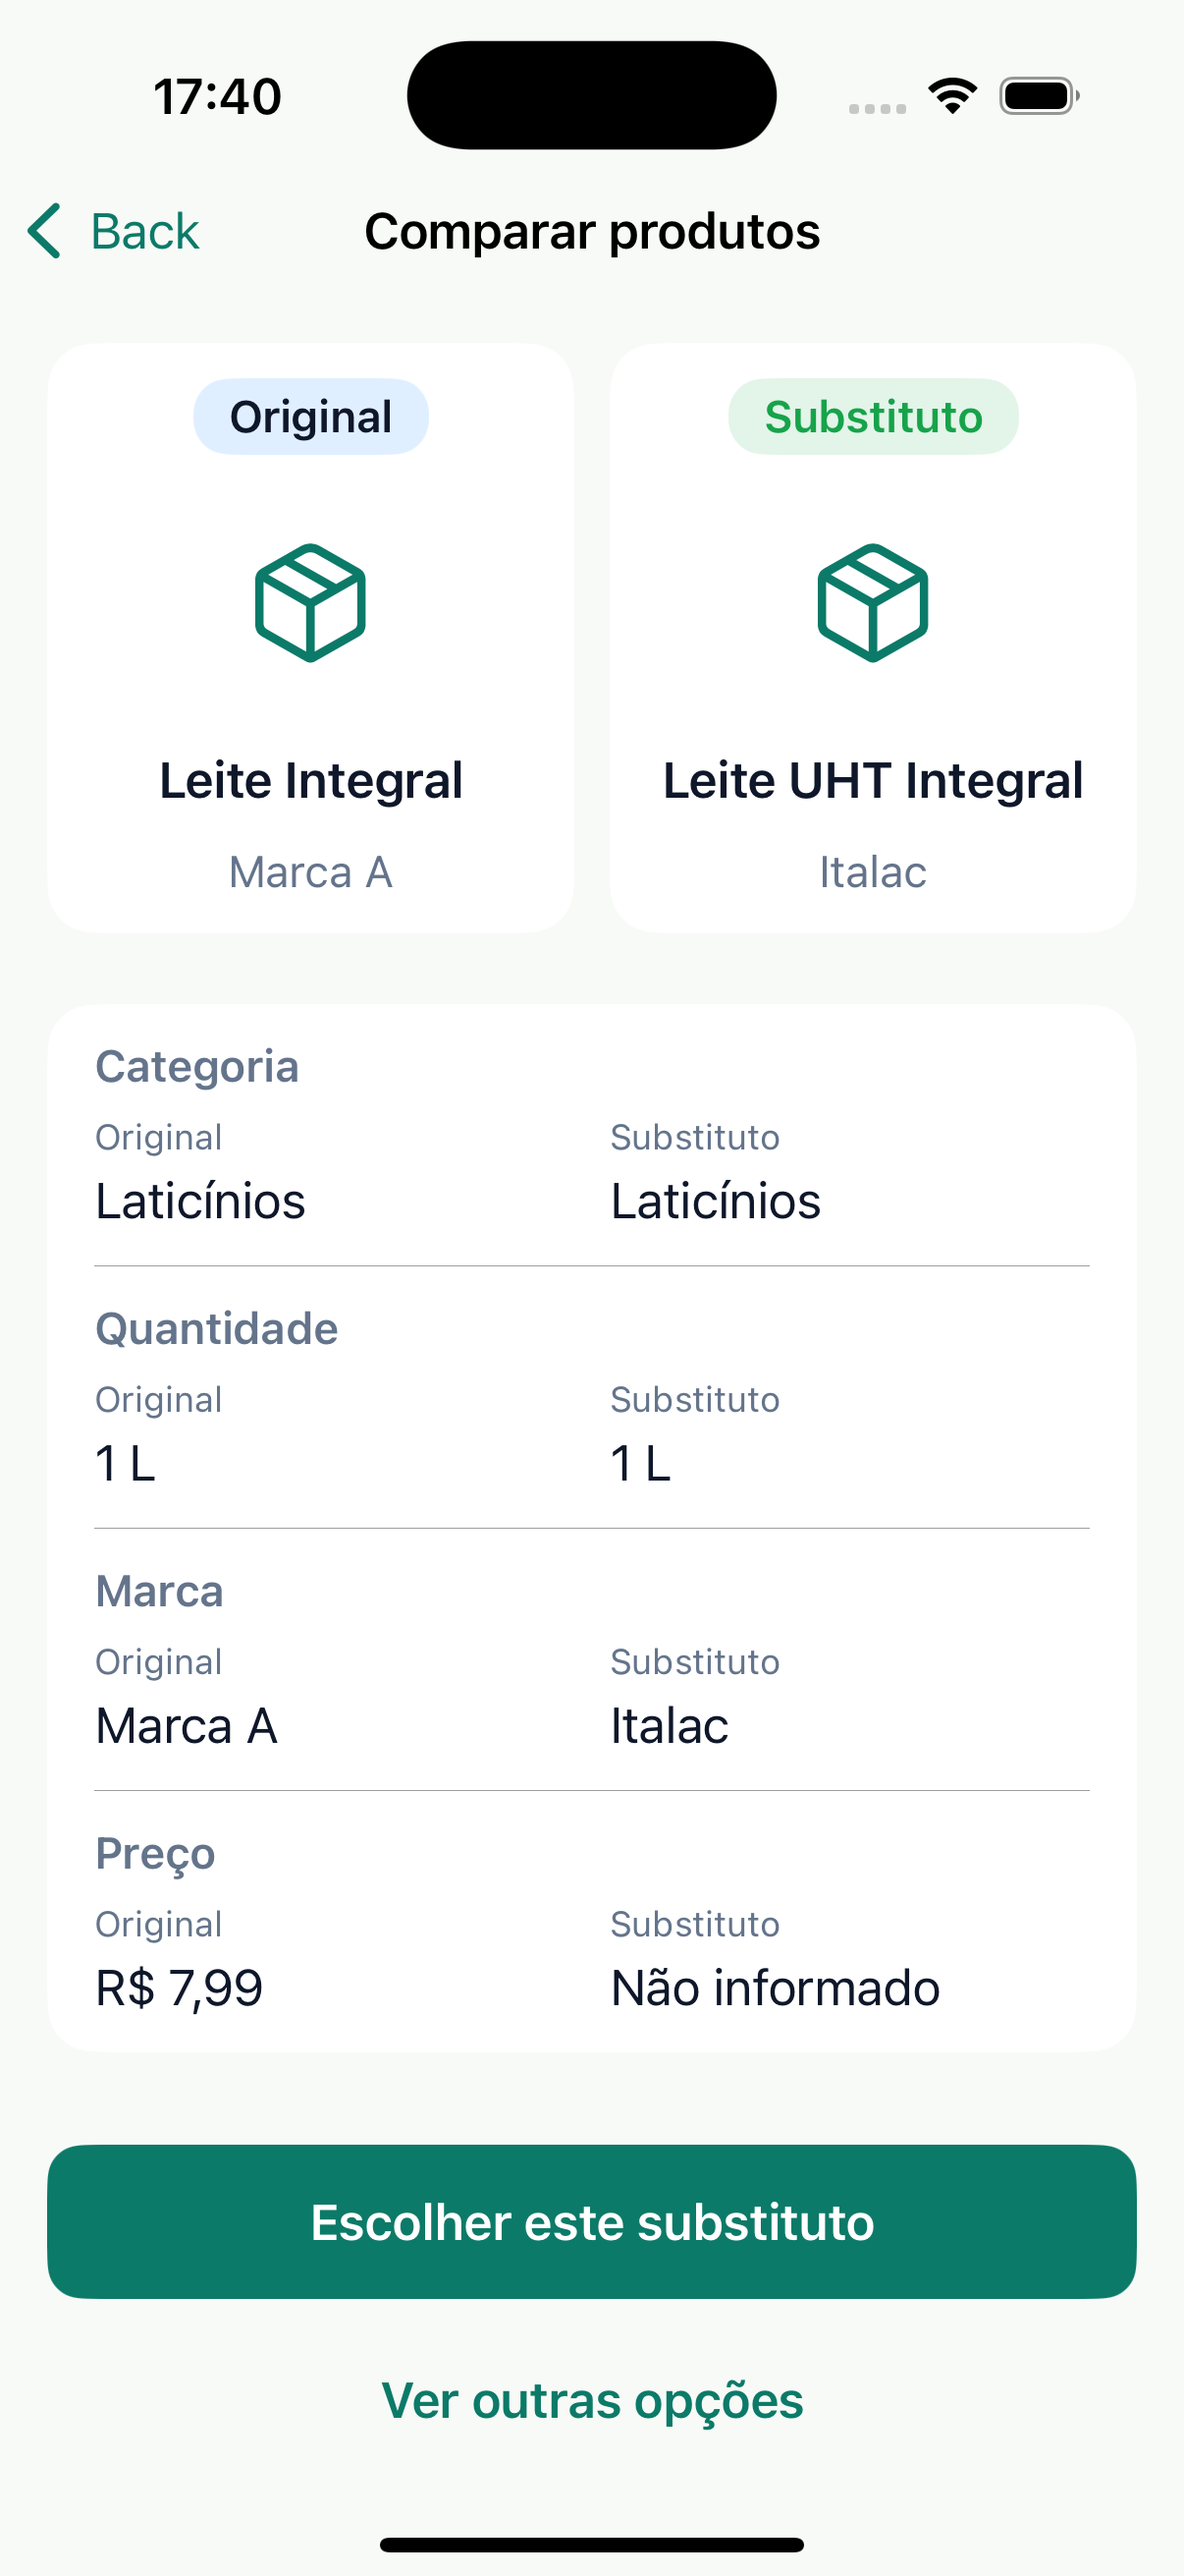
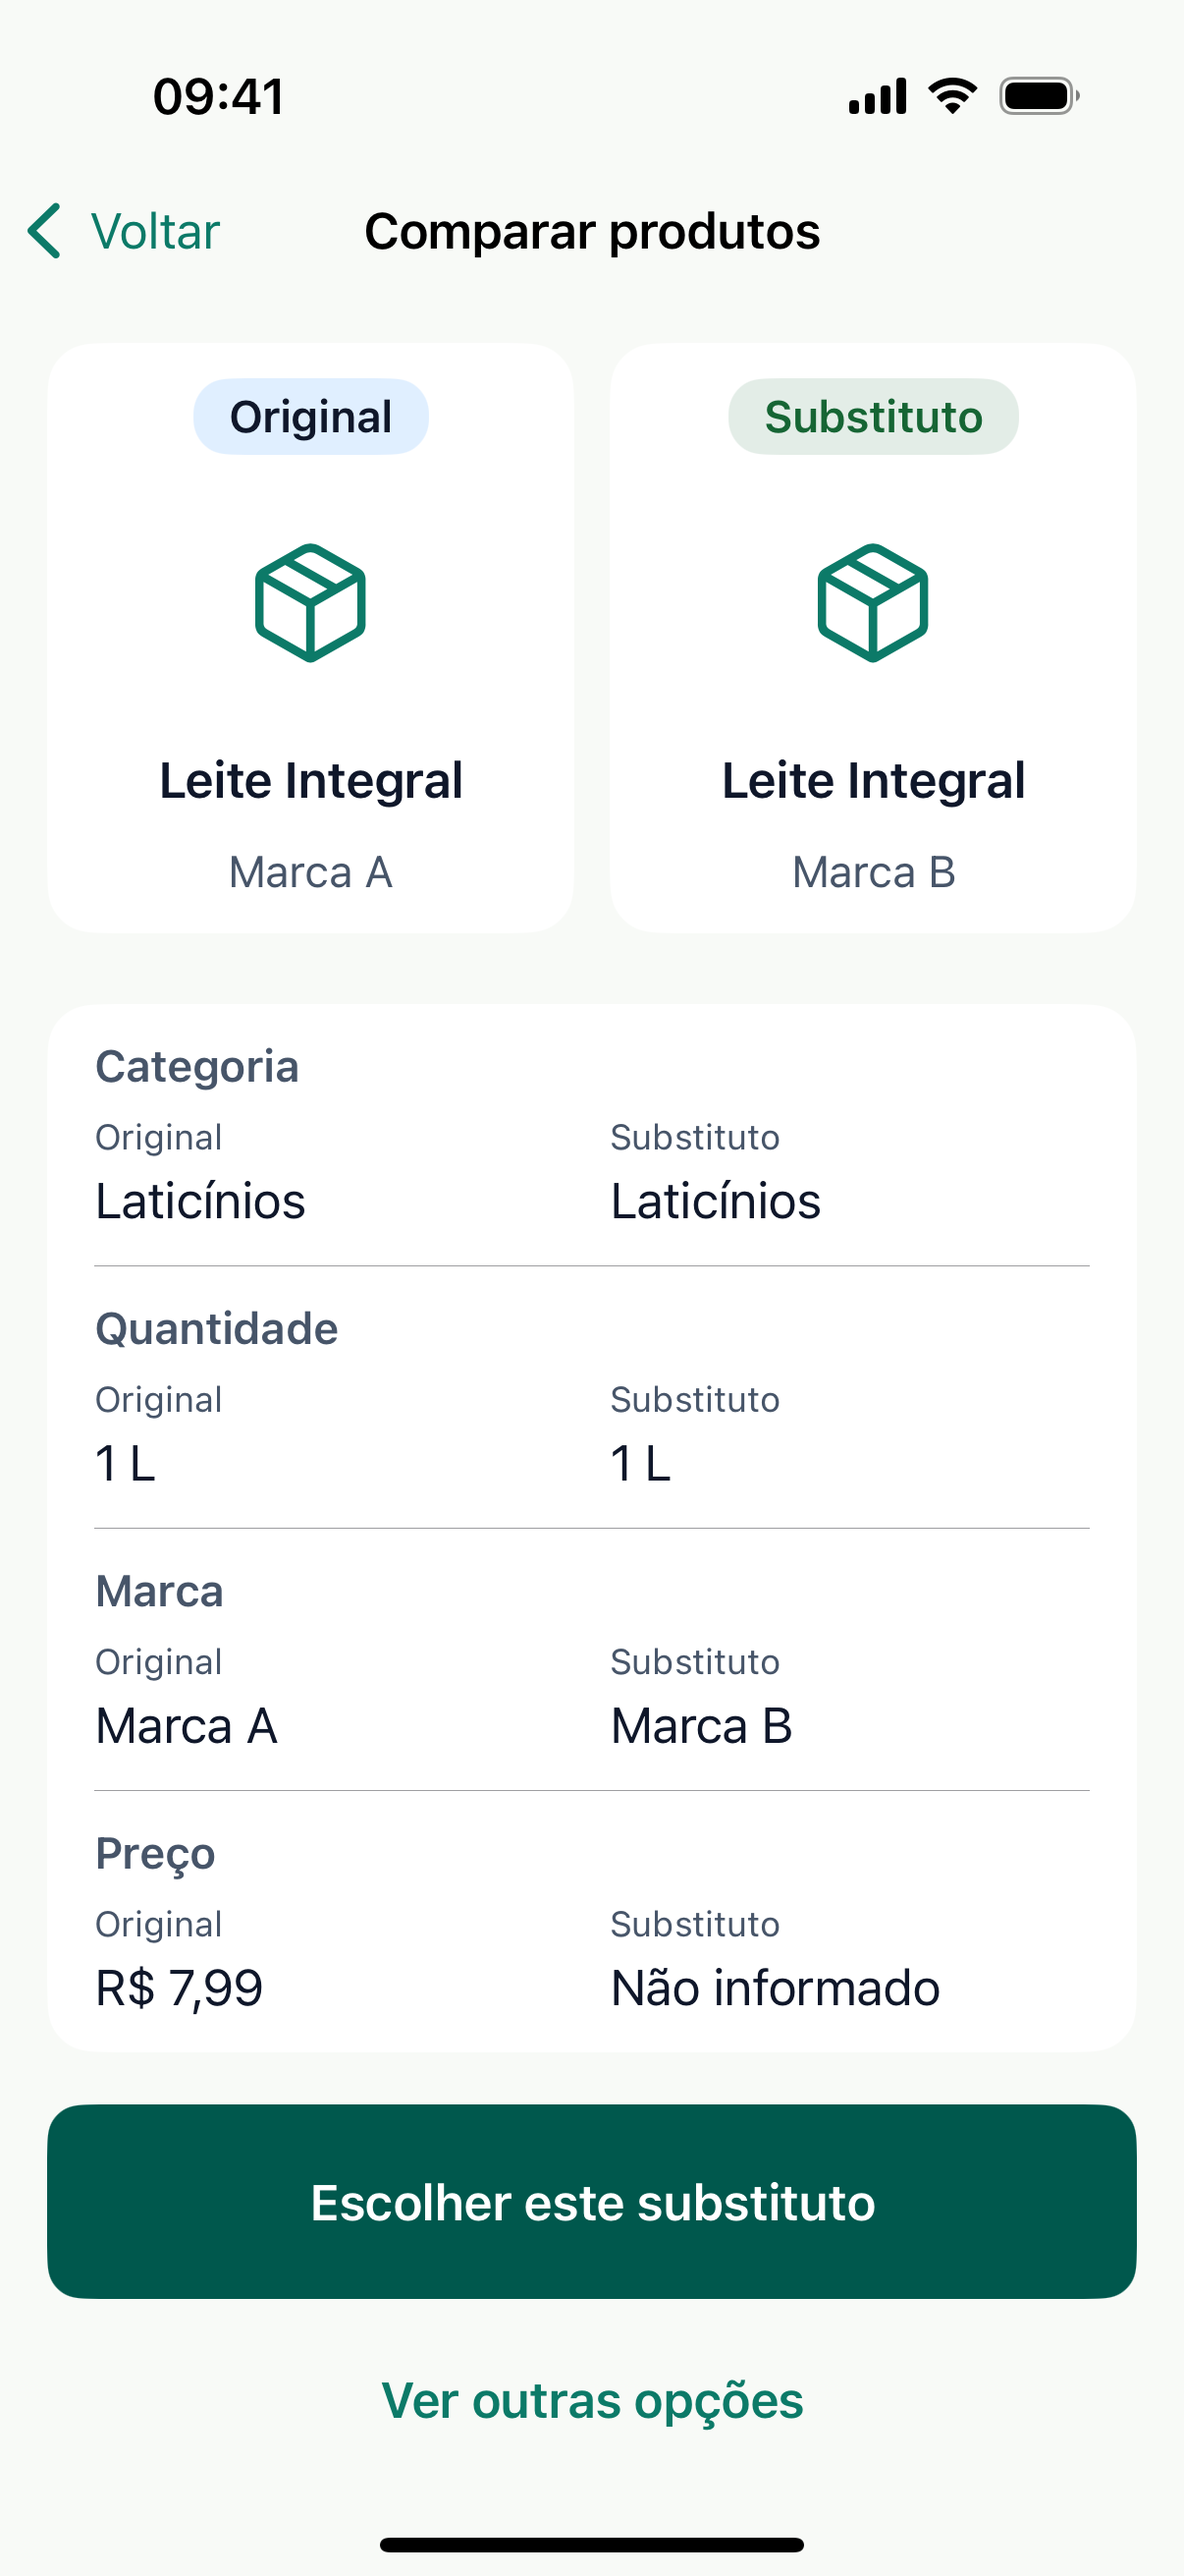
docs: complete app flow screenshots and validation notes

diff --git a/docs/project/CURRENT.md b/docs/project/CURRENT.md
@@ -31,7 +31,11 @@ REVIEW. Nenhuma task está `IN_PROGRESS` ou `READY`. Os itens implementados agua
 
 ## Evidência e limites
 
-O build de Debug para iOS Simulator passou em Swift 6. As suites unitárias passaram em execução anterior; o teste end-to-end e as auditorias focadas passaram individualmente. A execução final combinada parou com `Mach error -308` quando o serviço do simulador encerrou o canal com o runner; isso é uma falha do ambiente de teste, então a suíte completa não tem resultado verde nesta rodada. As verificações de API ao vivo foram feitas em requisições diretas aos três códigos de barras; a jornada automatizada usa dados controlados. A auditoria automática de acessibilidade cobre as quatro telas. O teste da tela Pedido exclui o alerta de texto cortado causado por um cartão parcialmente visível na borda da rolagem; os demais alertas permanecem ativos. Dynamic Type ampliado e VoiceOver ainda exigem inspeção manual completa.
+Em 28/09, o test plan completo terminou como `Passed`, sem falhas ou testes ignorados, com Xcode 16.4 (16F6) no iPhone 16 Pro / iOS 18.6 Simulator. A execução serial (`-parallel-testing-enabled NO`) passou pelos testes unitários, pela jornada Pedido → Sugestões → Comparação → Confirmação → Pedido atualizado e pelas auditorias de acessibilidade/lançamento.
+
+O app normal consulta a Open Food Facts; os testes de UI usam o catálogo determinístico. A API foi conferida por requisições diretas aos códigos de barras da demonstração, mas falta uma validação manual documentada do fluxo completo usando a API ao vivo. A auditoria automática cobre as quatro telas; o teste de Pedido exclui o aviso `.textClipped` de um cartão parcialmente visível na borda da rolagem. Dynamic Type ampliado e VoiceOver ainda precisam de inspeção manual completa.
+
+O Simulator foi inicializado com o Xcode 16.4. `xcode-select -p` ainda aponta para Command Line Tools; o Terminal deve selecionar Xcode 16.4 em **Xcode → Settings → Locations → Command Line Tools** ou definir `DEVELOPER_DIR` para essa execução.
 
 A configuração local de `DEVELOPMENT_TEAM` no projeto Xcode pertence à máquina e não deve ser publicada.
 

diff --git a/README.md b/README.md
@@ -30,11 +30,19 @@ flowchart LR
 
 ### Capturas do aplicativo
 
-Capturas reais do app no simulador, mostrando o pedido e a comparação. O fluxo automatizado percorre também Sugestões e Confirmação; ainda não há capturas dessas duas telas neste README. Os arquivos `docs/assets/*-reference.png` são mockups de referência, não screenshots do app.
+Capturas reais das cinco etapas, obtidas durante a jornada automatizada no iPhone 16 Pro Simulator (iOS 18.6). Os arquivos `docs/assets/*-reference.png` são mockups de referência, não screenshots do app.
 
-| Meu pedido · UIKit | Comparação · SwiftUI |
+| Meu pedido · UIKit | Sugestões · UIKit |
 | --- | --- |
-| ![Tela Meu pedido executada no simulador](docs/assets/screenshots/order.png) | ![Tela Comparação executada no simulador](docs/assets/screenshots/comparison.png) |
+| ![Tela Meu pedido executada no simulador](docs/assets/screenshots/order.png) | ![Tela Sugestões executada no simulador](docs/assets/screenshots/suggestions.png) |
+
+| Comparação · SwiftUI | Confirmação · SwiftUI |
+| --- | --- |
+| ![Tela Comparação executada no simulador](docs/assets/screenshots/comparison.png) | ![Tela Confirmação executada no simulador](docs/assets/screenshots/confirmation.png) |
+
+Após confirmar, o fluxo retorna ao pedido atualizado:
+
+![Pedido atualizado após a substituição](docs/assets/screenshots/order-updated.png)
 
 ## Arquitetura
 
@@ -180,11 +188,14 @@ Ferramentas de IA foram usadas como apoio à pesquisa, scaffolding, implementaç
 2. Selecione o esquema `Substi` e um simulador com iOS 16 ou posterior.
 3. Execute o app. O fluxo normal consulta Open Food Facts e requer conexão com a Internet.
 
+Para usar `xcodebuild` pelo Terminal, selecione o Xcode instalado em **Xcode → Settings → Locations → Command Line Tools**. A suíte de UI foi validada em execução serial para evitar falhas de inicialização de workers do Simulator.
+
 Para executar testes no simulador:
 
 ```bash
 xcodebuild -project Substi.xcodeproj -scheme Substi \
   -destination 'platform=iOS Simulator,name=iPhone 16 Pro' \
+  -parallel-testing-enabled NO \
   CODE_SIGNING_ALLOWED=NO test
 ```
 
